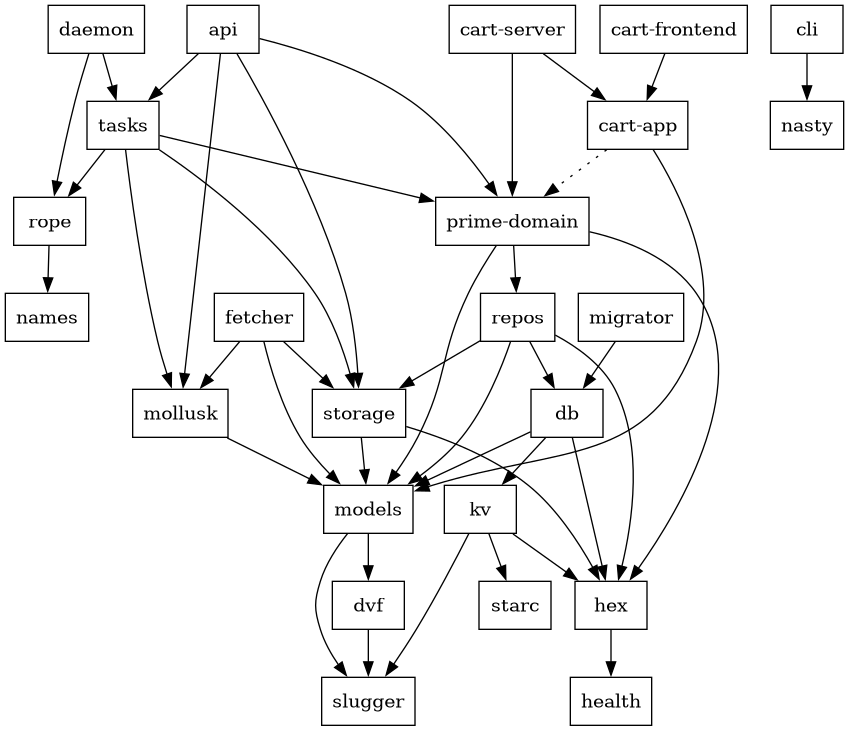
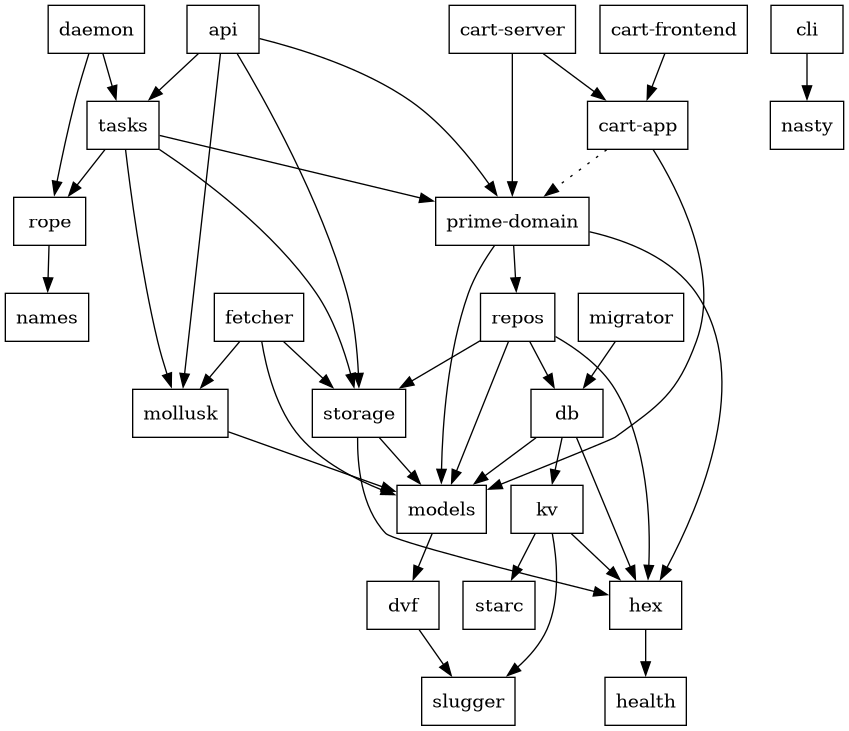
fix(model): remove dependency on `slugger`

diff --git a/crates/models/src/entry.rs b/crates/models/src/entry.rs
@@ -1,7 +1,6 @@
 use serde::{Deserialize, Serialize};
-use slugger::LaxSlug;
 
-use crate::{CacheRecordId, Model, OrgRecordId, RecordId};
+use crate::{CacheRecordId, LaxSlug, Model, OrgRecordId, RecordId};
 
 /// The [`Entry`] table name.
 pub const ENTRY_TABLE_NAME: &str = "entry";
